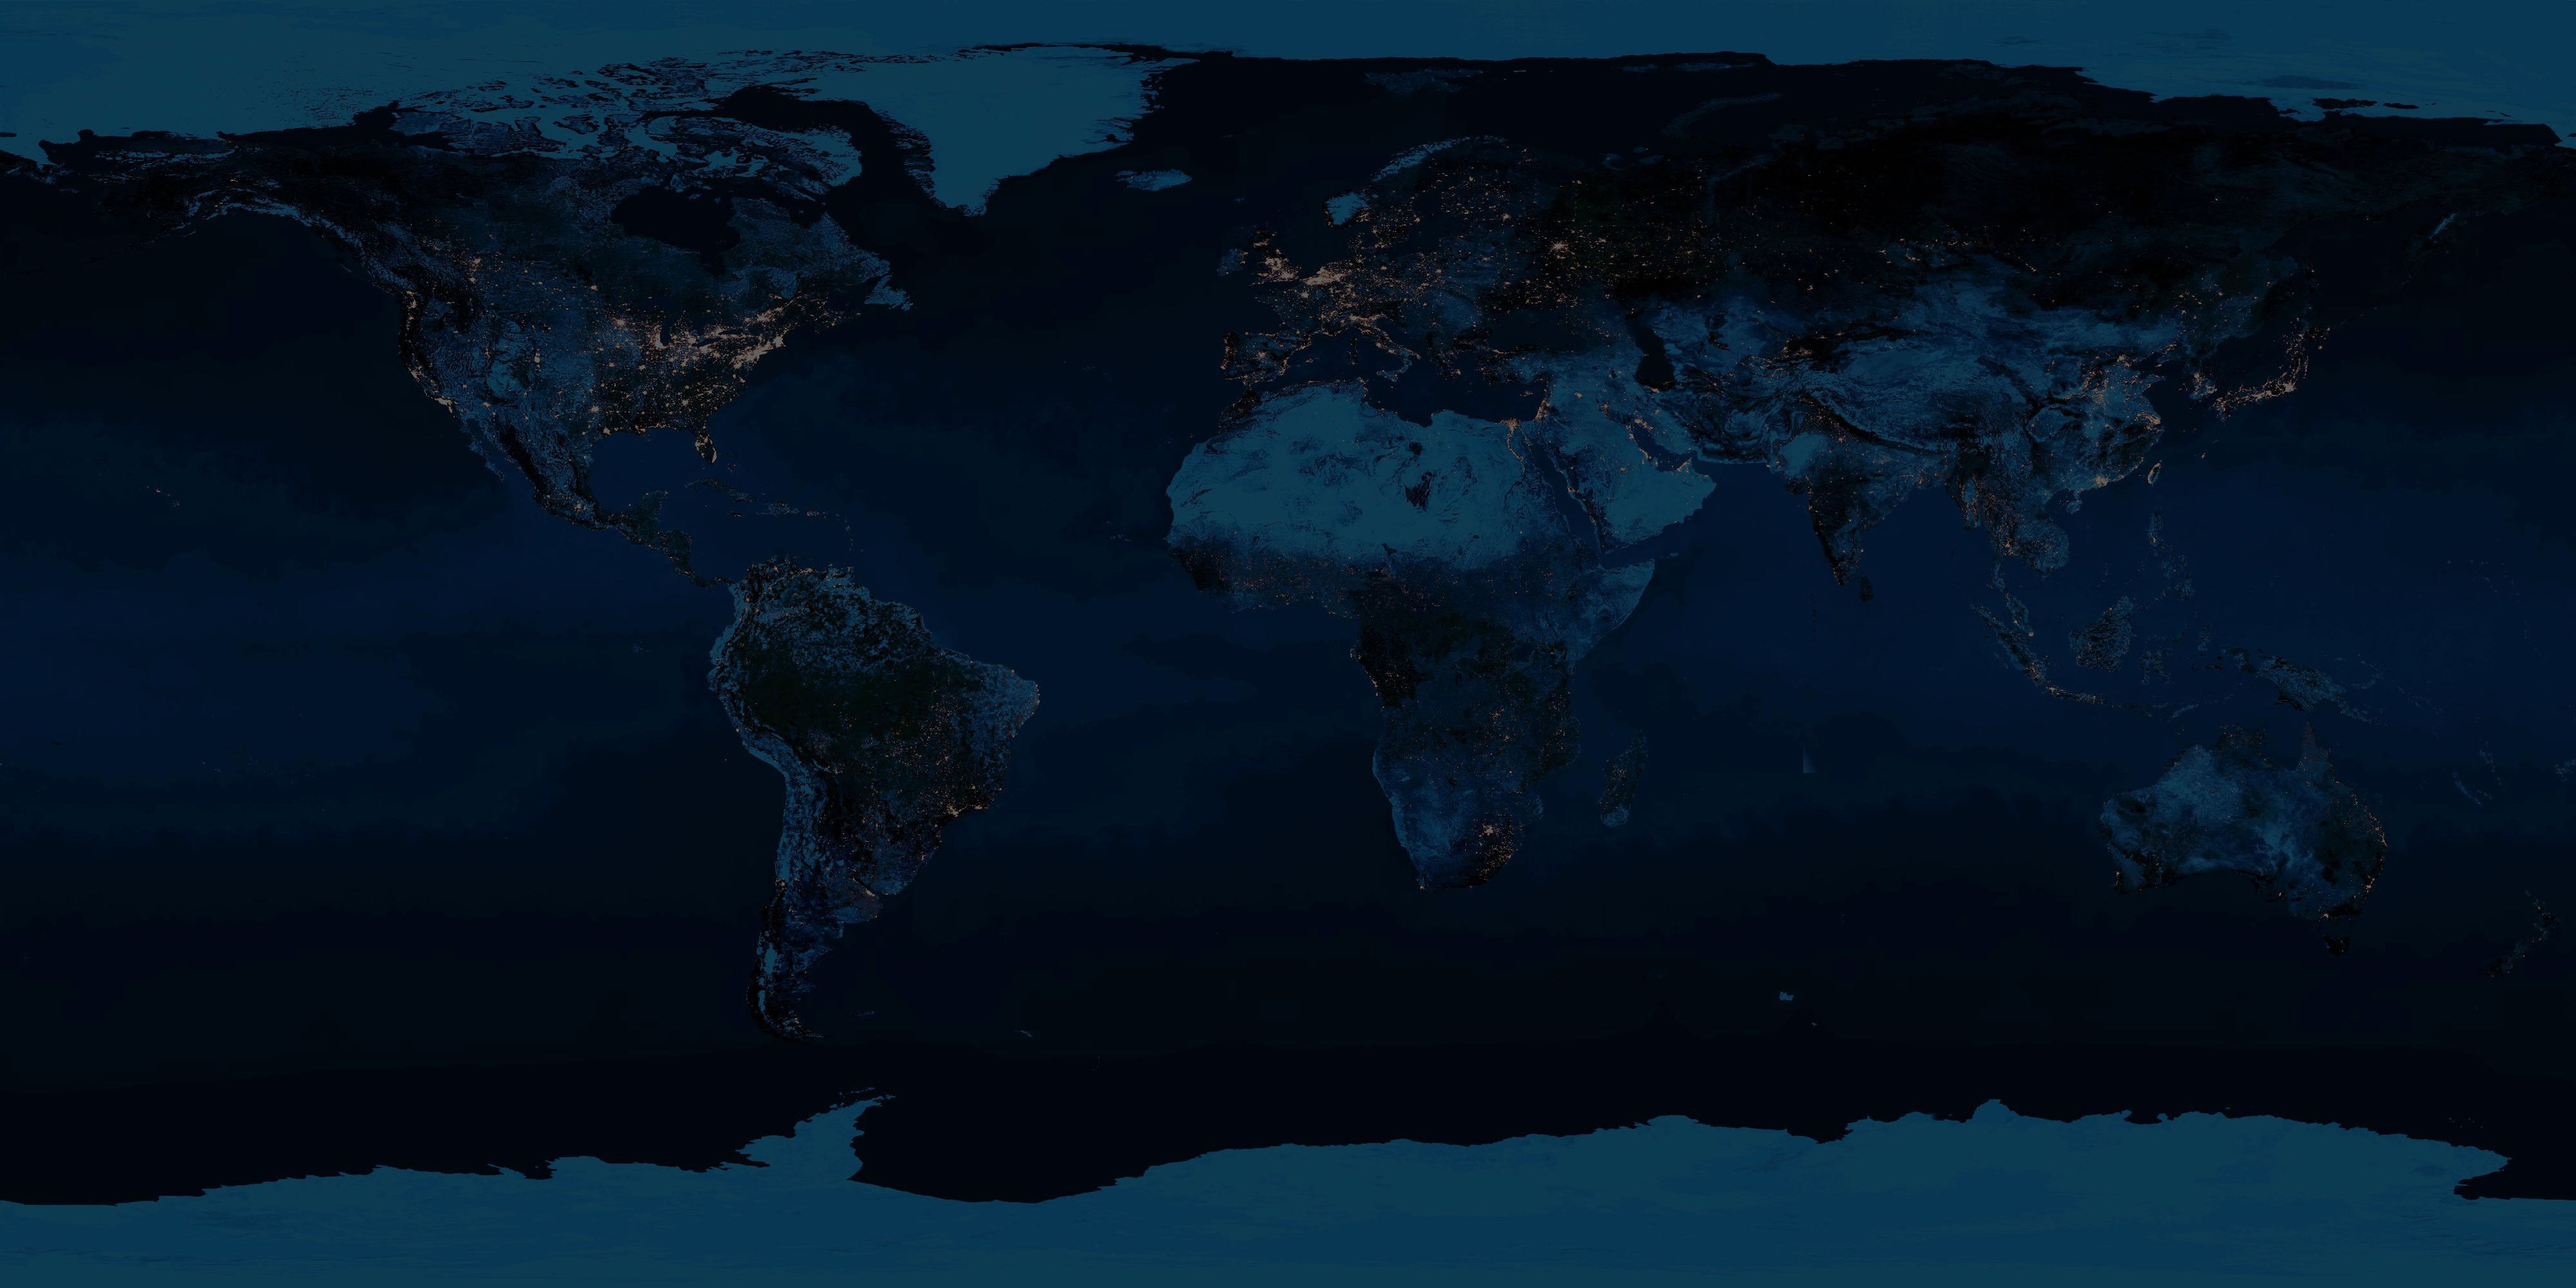
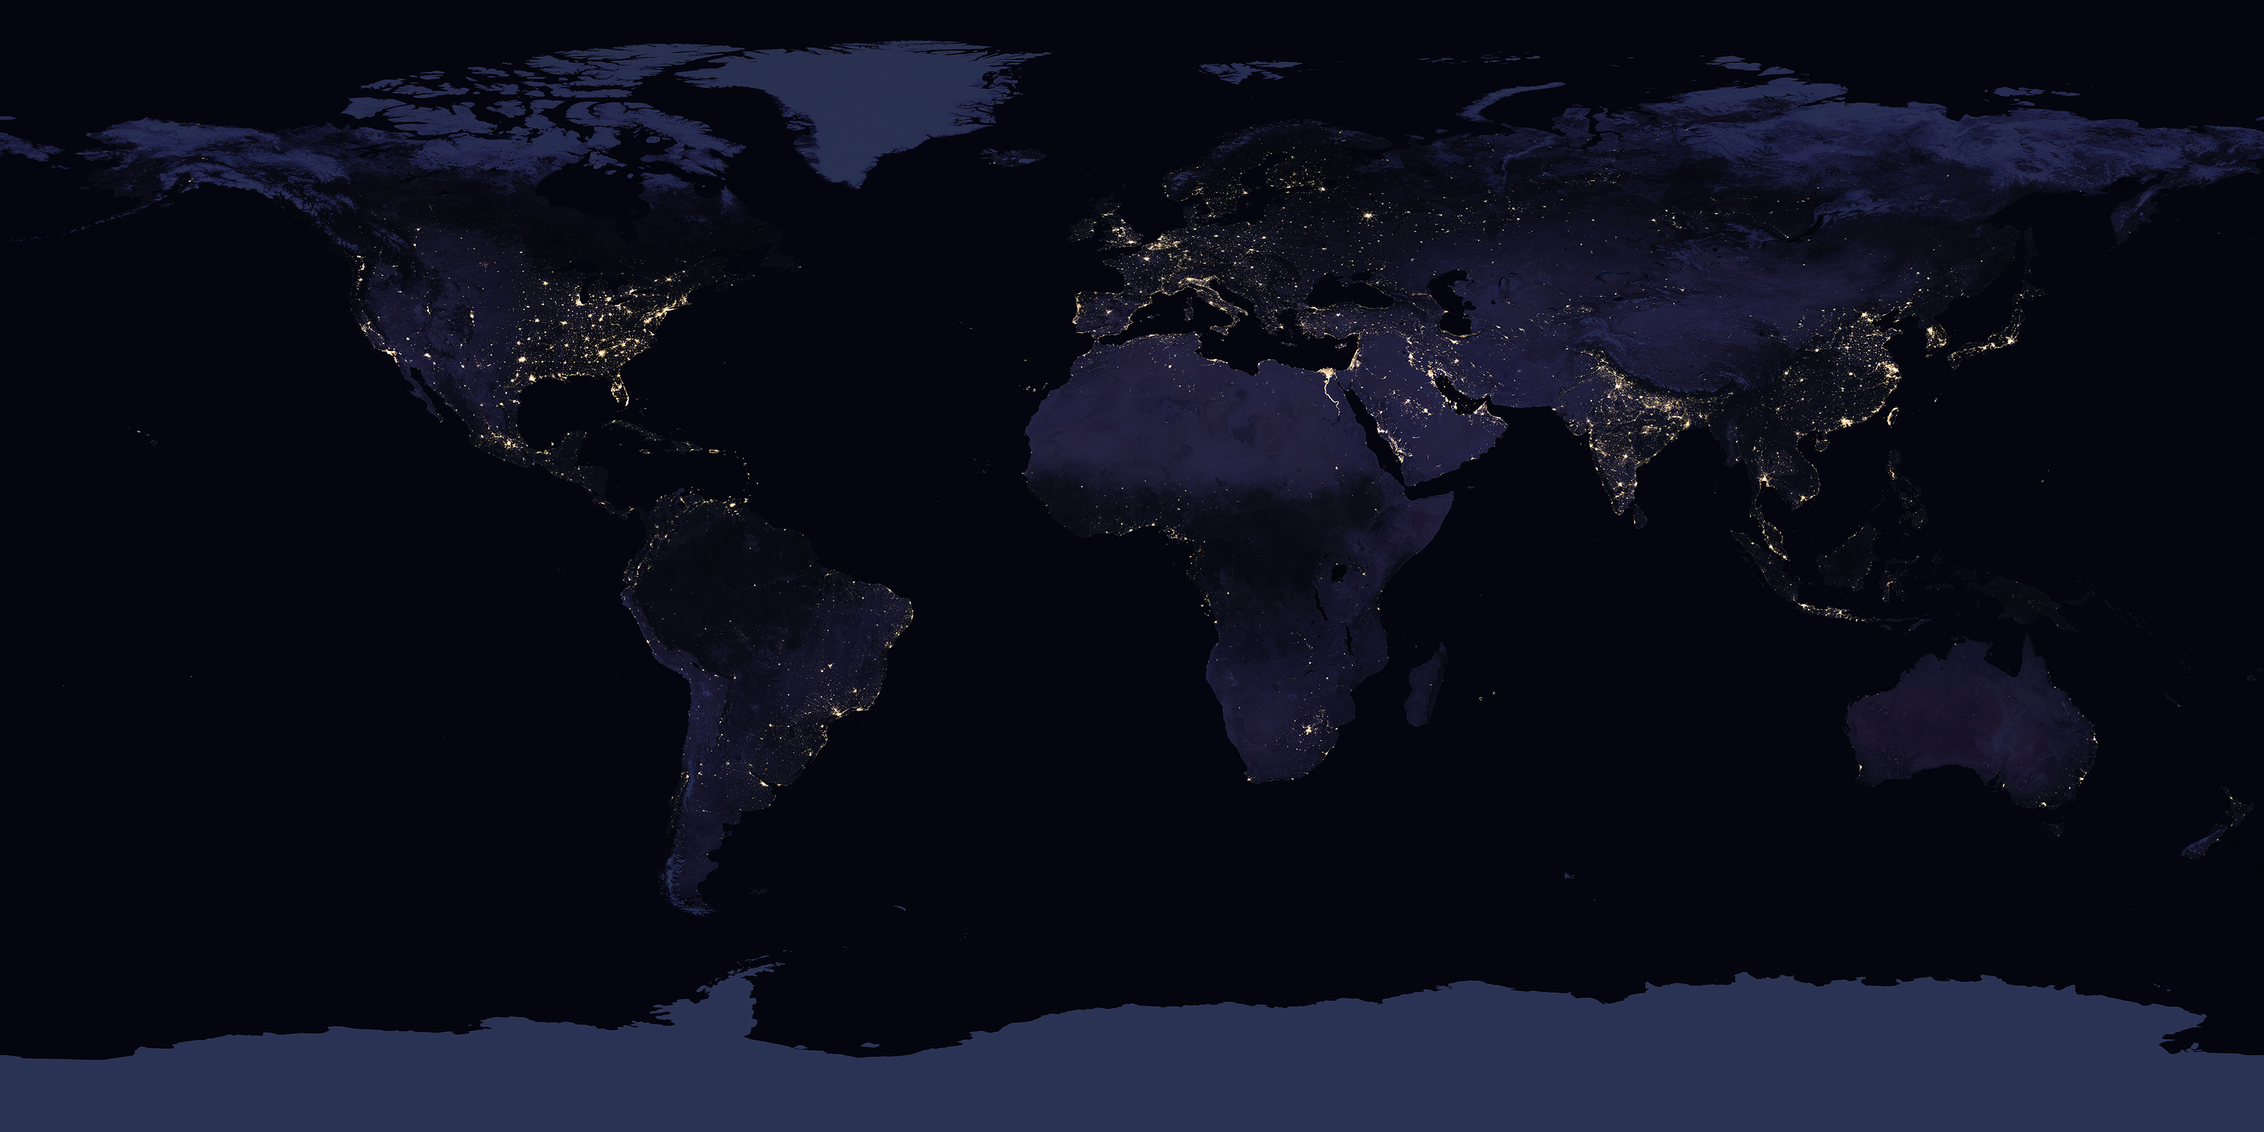
keyboard + globe

diff --git a/src/app/page.js b/src/app/page.js
@@ -1,14 +1,96 @@
 'use client';
 
 import dynamic from 'next/dynamic';
+import { useState, useRef } from 'react';
+import Keyboard from 'react-simple-keyboard';
+import 'react-simple-keyboard/build/css/index.css';
+
+// Dynamically import Globe to disable SSR
 const Globe = dynamic(() => import('react-globe.gl'), { ssr: false });
 
 export default function Home() {
+  const [input, setInput] = useState("");
+  const [layoutName, setLayoutName] = useState("default");
+
+  const keyboardRef = useRef();
+
+  const handleKeyboardChange = (input) => {
+    setInput(input);
+  };
+
+  const handleKeyPress = (button) => {
+    console.log("Button pressed", button);
+    if (button === "{shift}" || button === "{lock}") handleShift();
+  };
+
+  const handleShift = () => {
+    setLayoutName(prev => (prev === "default" ? "shift" : "default"));
+  };
+
+  const handleInputChange = (e) => {
+    const input = e.target.value;
+    setInput(input);
+    keyboardRef.current.setInput(input);
+  };
+
   return (
     <main>
-      <Globe
-        globeImageUrl="/earth-night.jpg"
-      />
+      {/* Globe */}
+      <div style={{ height: "100vh", width: "100vw", position: "fixed", top: 0, left: 0 }}>
+        <Globe
+          globeImageUrl="/earth-night.jpg"
+          backgroundColor="black"
+        />
+      </div>
+
+      {/* Keyboard & input */}
+      <div style={{
+        position: 'absolute',
+        bottom: 20,
+        left: '50%',
+        transform: 'translateX(-50%)',
+        zIndex: 10,
+        maxWidth: '600px',
+        width: '90%',
+        color: 'black'
+      }}>
+        <input
+          value={input}
+          placeholder="Tap on the virtual keyboard to start"
+          onChange={handleInputChange}
+          style={{
+            width: "100%",
+            padding: "10px",
+            fontSize: "16px",
+            marginBottom: "10px",
+            borderRadius: "4px",
+            border: "1px solid #333"
+          }}
+        />
+        <Keyboard
+          keyboardRef={r => (keyboardRef.current = r)}
+          onChange={handleKeyboardChange}
+          onKeyPress={handleKeyPress}
+          layoutName={layoutName}
+          physicalKeyboardHighlight={true}
+          layout={{
+            default: [
+              "` 1 2 3 4 5 6 7 8 9 0 - = {bksp}",
+              "{tab} q w e r t y u i o p [ ] \\",
+              "{lock} a s d f g h j k l ; ' {enter}",
+              "{shift} z x c v b n m , . / {shift}",
+              ".com @ {space}"
+            ],
+            shift: [
+              "~ ! @ # $ % ^ & * ( ) _ + {bksp}",
+              "{tab} Q W E R T Y U I O P { } |",
+              "{lock} A S D F G H J K L : \" {enter}",
+              "{shift} Z X C V B N M < > ? {shift}",
+              ".com @ {space}"
+            ]
+          }}
+        />
+      </div>
     </main>
   );
 }

diff --git a/src/app/keyboard.js b/src/app/keyboard.js
@@ -1,0 +1,22 @@
+import React, { Component } from 'react';
+import Keyboard from 'react-simple-keyboard';
+import 'react-simple-keyboard/build/css/index.css';
+
+class App extends Component {
+  onChange = (input) => {
+    console.log("Input changed", input);
+  }
+
+  onKeyPress = (button) => {
+    console.log("Button pressed", button);
+  }
+
+  render(){
+    return (
+      <Keyboard
+        onChange={this.onChange}
+        onKeyPress={this.onKeyPress}
+      />
+    );
+  }
+}
